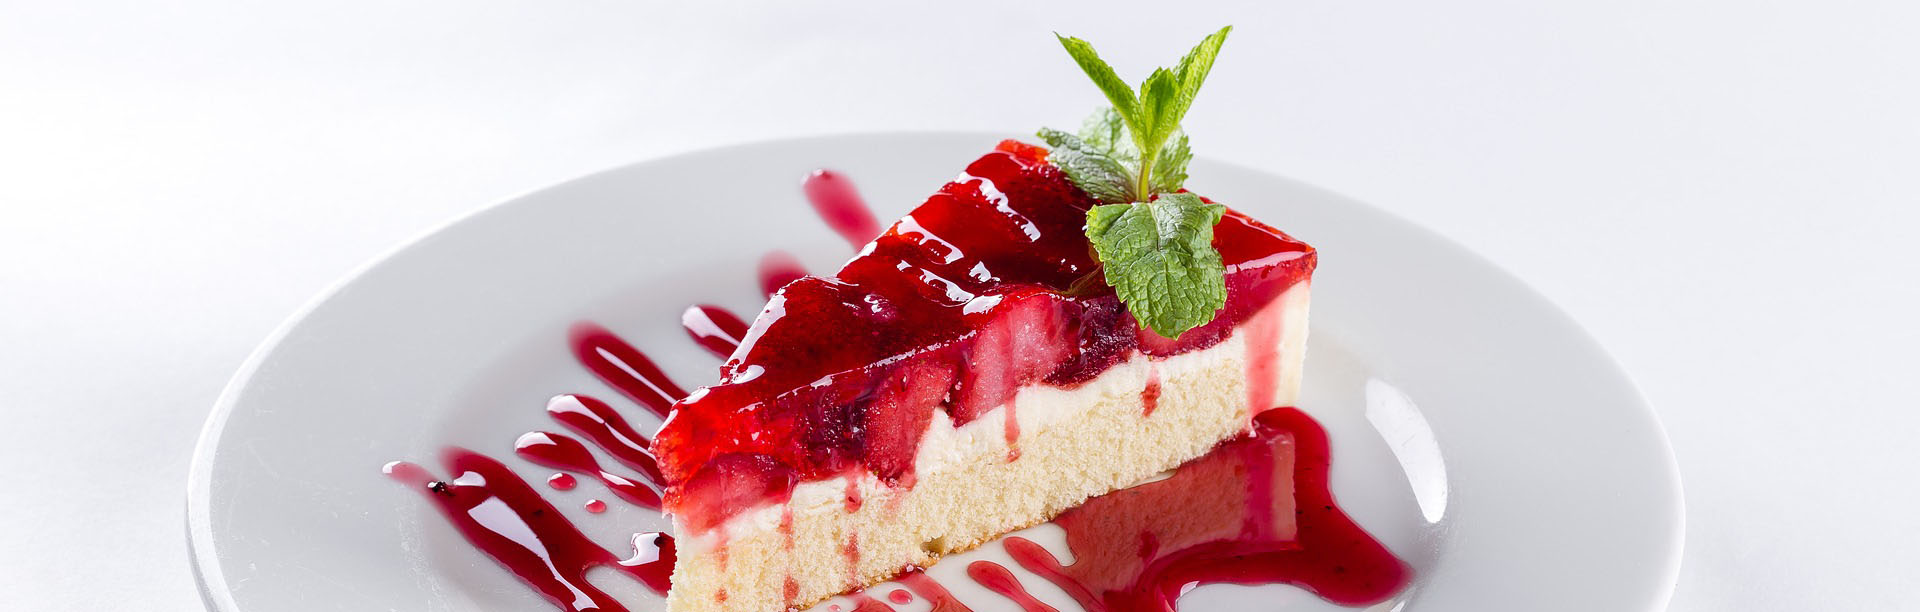
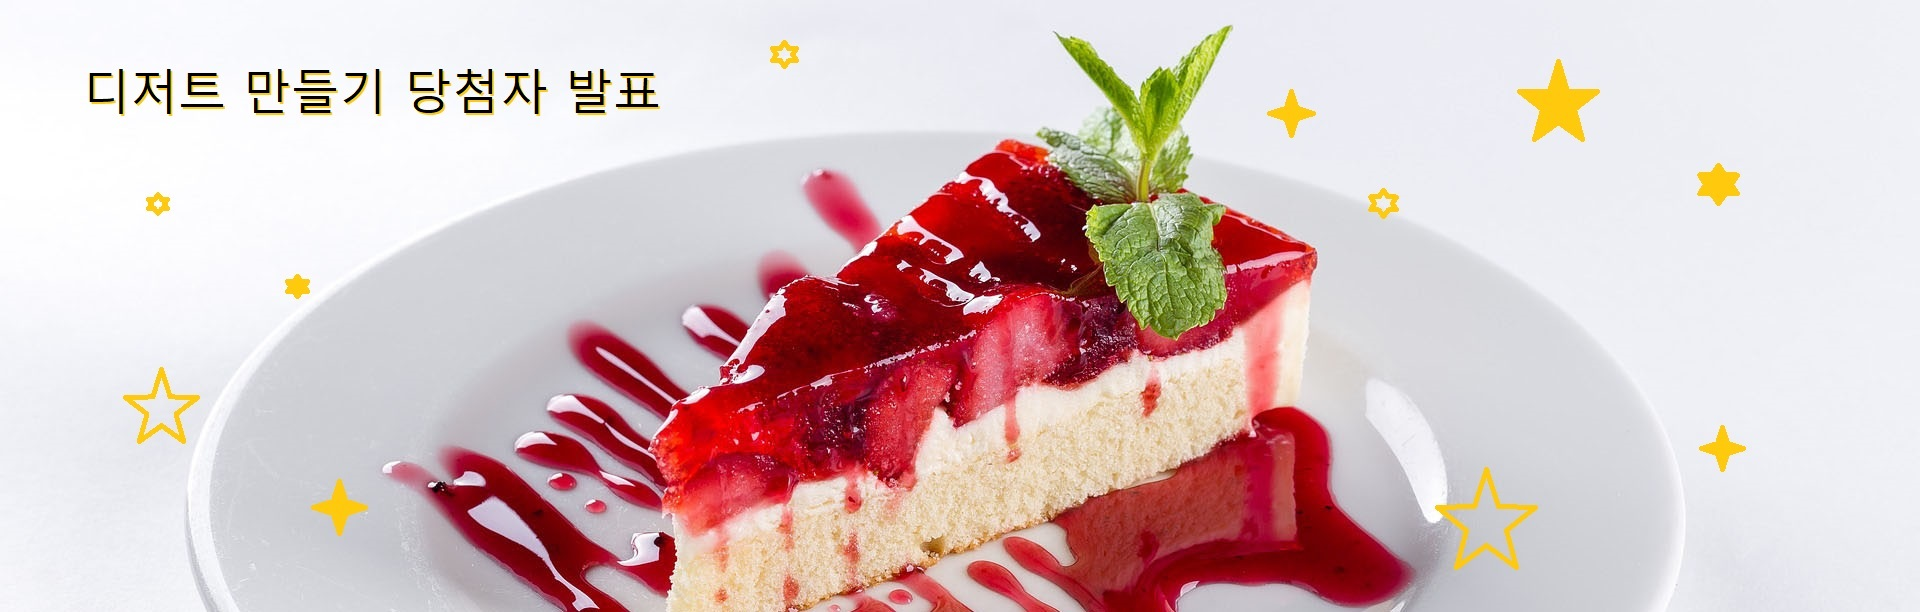
메인화면 바꿈

diff --git a/WebContent/jsp_project/css/common.css b/WebContent/jsp_project/css/common.css
@@ -32,10 +32,7 @@
  	
  	.line{
  	
- 		border-bottom:1.5px solid #ffbb00;
- 		
- 		
- 		
+ 		border-bottom:0.5px solid #ffbb00;
  	
  	} 
 
@@ -85,6 +82,7 @@
  	#slidediv{
  		background-color:#EAEAEA; 
         height:600px;
+        max-width:1880px;
         margin-bottom:50px;
     }
         
@@ -98,34 +96,48 @@
 	}
         
 	#bottable{
-	    width:100%;
+	    width:1400px;
 	    height:100%;
+	    padding:10px;
+	    font-size:25px;
+	    text-align:left;
+	    
+	    
     }
-        
+        .adad{
+        margin:30px;
+        }
         
         
 	#bottomdiv
     	{background-color:white;
+    	width:100%;
     	
-    	color:#FFBB00;
+    	}
+
+.maindiv{
+width:100%;}
+    	
         height:300px;
-        width:50%;
-        float:left;
-        border-collapse:collapse;
+        width:40%;
         
         }
         
     th, td{
     	padding:10px;
+    	font-size:30px;
    	}
         
+        #botdiv{
+        max-width:1880px;
+        }
         
 	#eventdiv{
     	background-color:#A6A6A6;
         height:300px;
-        width:50%;
-        display:inline-block;
-        line-height: 200px;
+        width:40%;
+        margin-right:20px;
+        margin-left:5px;
     }
         
     .dotdot{
@@ -235,9 +247,15 @@
 		
 		
 	#footer{
-		margin-top:50px;
-		float:right;
-		marign-right:50px;
+		
+		position: static;
+  left: 0;
+  bottom: 0;
+  float:right;
+   color:#cccccc;
+   font-size:12px;
+  
+
 	}
 	
 	.signupbutton2{
